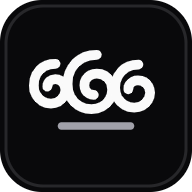
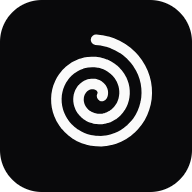
feat: icono minimalista de un solo rizo y nombre simple

diff --git a/index.html b/index.html
@@ -7,7 +7,8 @@
   <meta name="description" content="Control capilar masculino: perfil de rizo, inventario inteligente y rutina semanal adaptativa." />
   <meta name="apple-mobile-web-app-capable" content="yes" />
   <meta name="apple-mobile-web-app-status-bar-style" content="black-translucent" />
-  <title>Curly Tracker · Tu rutina capilar</title>
+  <title>Curly Tracker</title>
+  <meta name="apple-mobile-web-app-title" content="Curly Tracker" />
   <link rel="manifest" href="./manifest.json" />
   <link rel="icon" type="image/svg+xml" href="./icon.svg" />
   <link rel="apple-touch-icon" href="./icon-192.png" />

diff --git a/sw.js b/sw.js
@@ -1,6 +1,6 @@
 /* Curly Tracker · Service Worker
    Caché básica offline + notificaciones locales y push. */
-const CACHE = 'curly-tracker-v3';
+const CACHE = 'curly-tracker-v4';
 const SCOPE = self.registration.scope;
 
 const LOCAL_ASSETS = [
